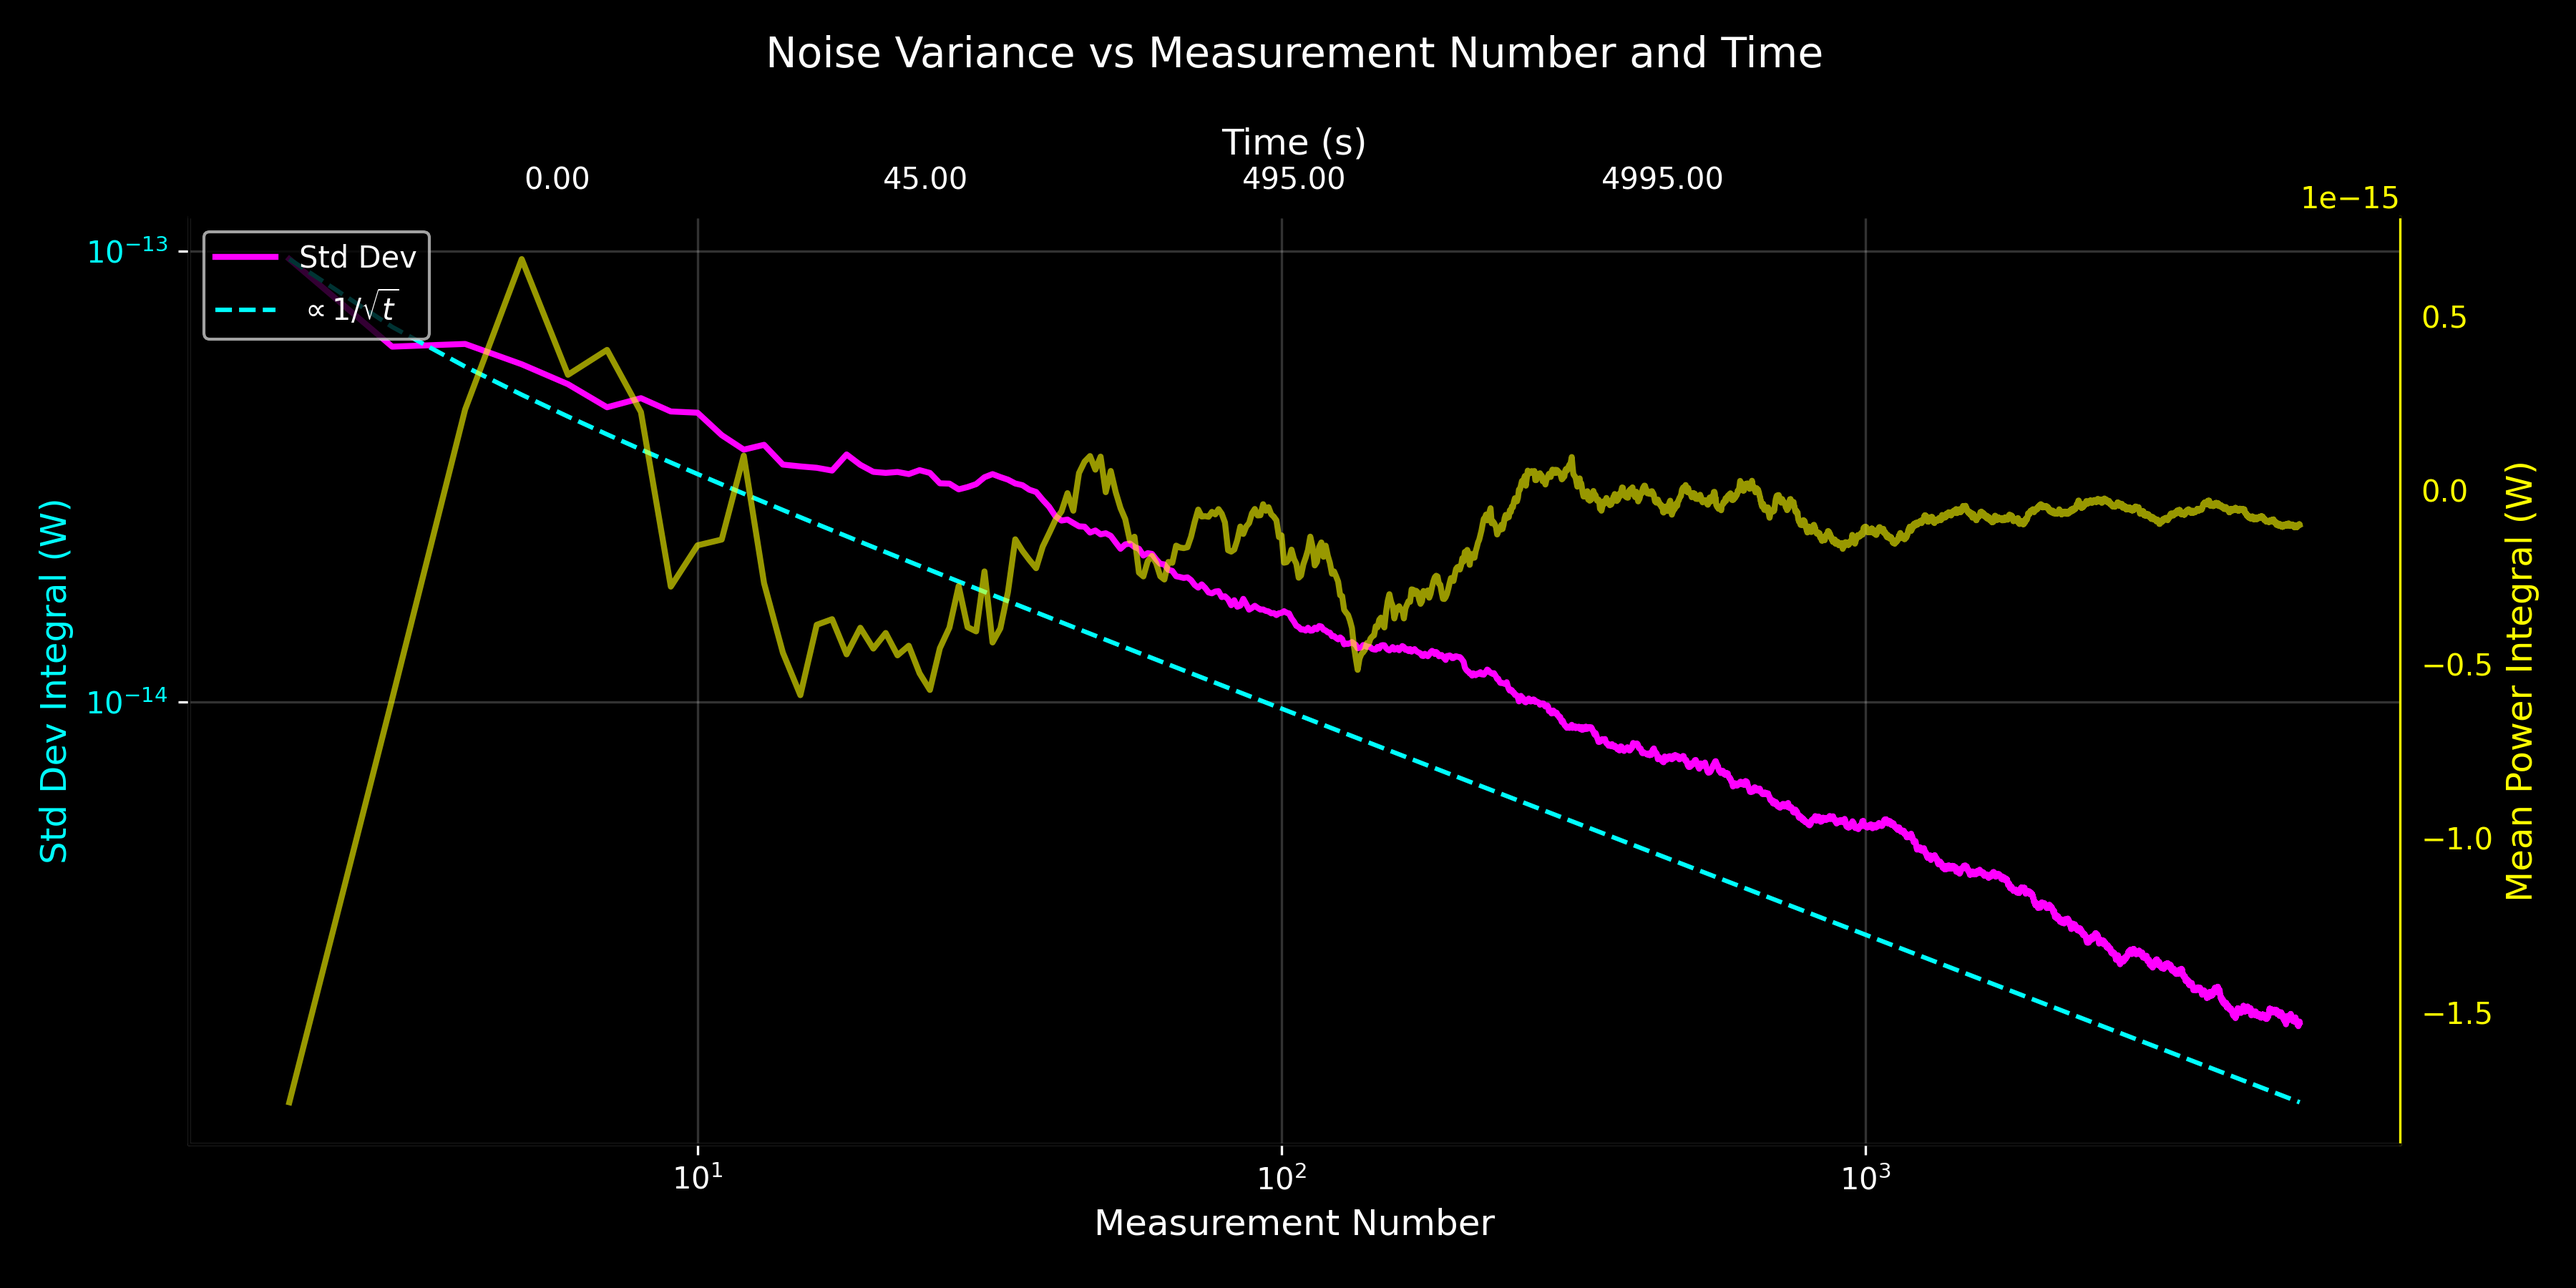
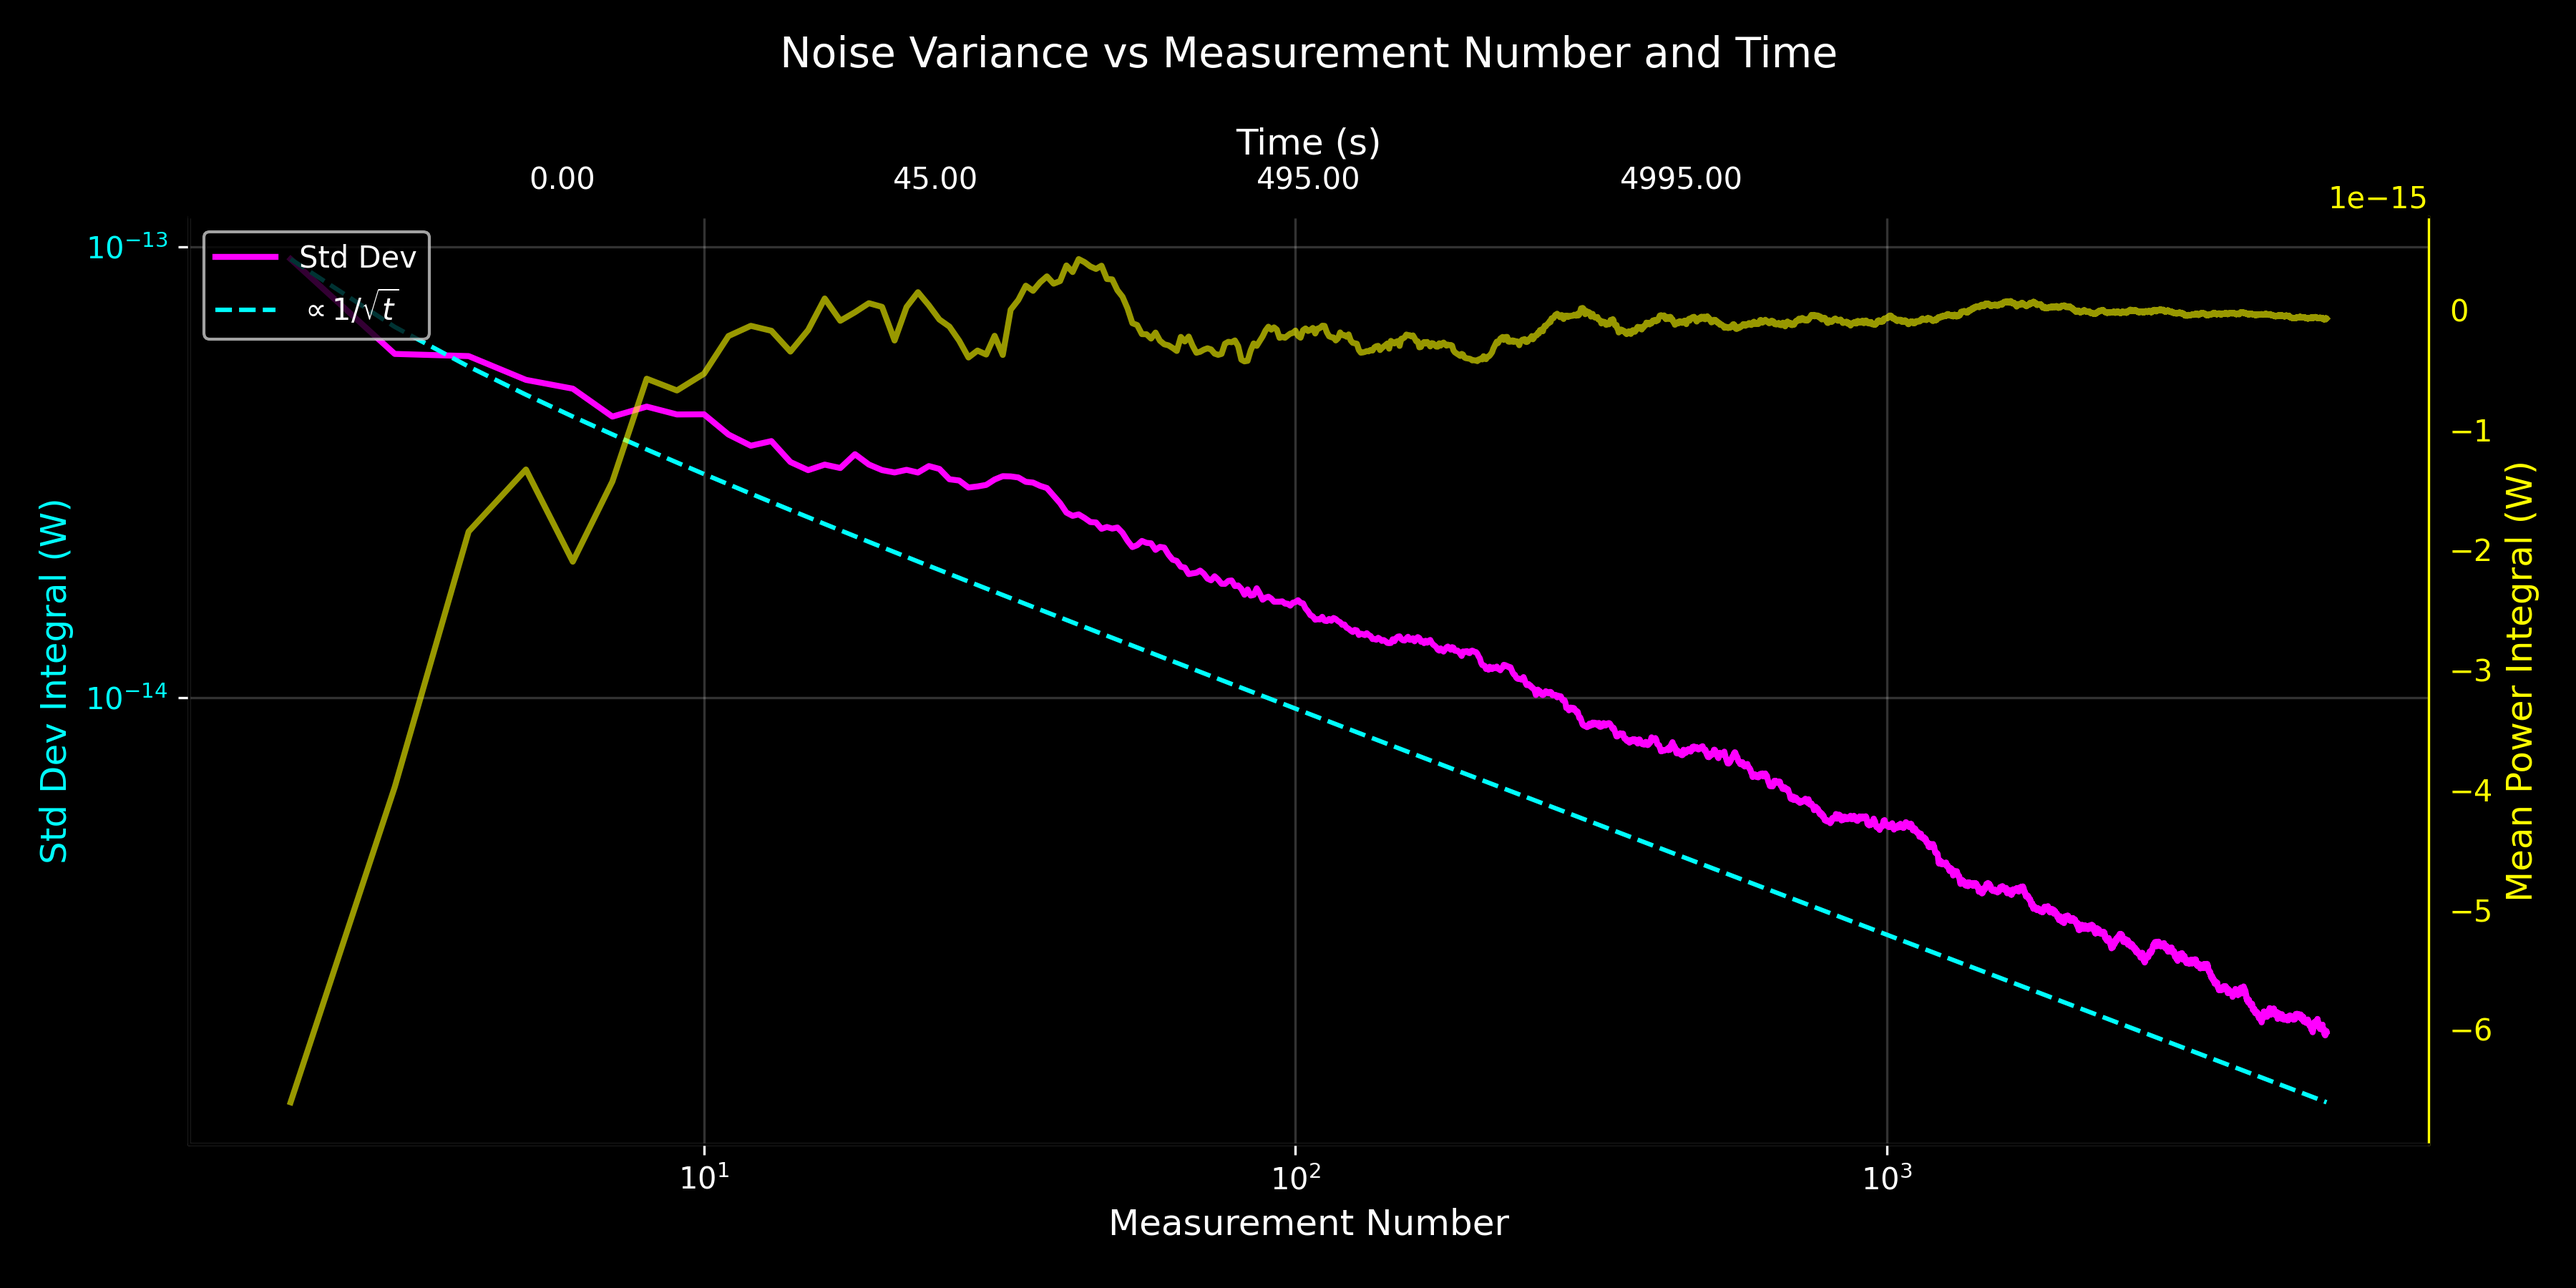
Sim improved

diff --git a/Codebase/Analysis/SignalSim.py b/Codebase/Analysis/SignalSim.py
@@ -11,6 +11,11 @@ from scipy import constants as const
 # A_P = 0.21 # cm^2
 # DELTA_V = 5 #GhZ
 
+# Multyply signal by teh gain (gain/10)*10 (JUST SUM IN THE GAIN + IMPEDENCE)
+# DO NOT INCLUDE THE GAIN OF THE PREAMPLIFIER
+# TAKE IN THE LOSS OF THE DETECTOR INTO ACCOUNT
+    # LOOK INTO THE CONVERSION LOSS OF THE DATASHEET, APPLY TO TEH INPUT SIGNAL
+
 class SignalSim:
     def __init__(self, meta, pressures, constants):
 
@@ -32,12 +37,14 @@ class SignalSim:
         self.ATM_PRESSURE = constants['ATM_PRESSURE']
         self.NOISE_STD = constants['NOISE_STD']
         self.BASELINE_COEFFS = constants['BASELINE_COEFFS']
+        self.GAIN = 10 ** (constants['GAIN'] / 10) # convert from dB to linear
+        self.RBW = constants['RBW']
         
         self.Q = constants['Q']
         self.T = constants['T']
-        self.A_eg = constants['A_eg']
+        self.A_eg = constants['A_eg'] * 0.0001 # convert from s^-1 cm^2 to s^-1 m^2
         self.nu = constants['nu']
-        self.L = constants['L']
+        self.L = constants['L'] * 0.01 # convert from cm to m
         self.PHI_D = constants['PHI_D']
         self.A_p = constants['A_p']
 
@@ -46,7 +53,7 @@ class SignalSim:
         n_e = (pressure / const.k * self.T) * (co_ppm / 1e6) * np.exp(-33.2 / self.T) / self.Q 
         I_v = (3 / (8 * np.pi * CO_bandwidth)) * n_e * const.h * self.nu * self.A_eg * self.L
         P_v = I_v * CO_bandwidth * self.PHI_D * self.A_p
-        return P_v * (1 + np.random.normal(-0.1, 0.1)) * self.SWEEP_TIME # add some variability to the signal power 
+        return P_v 
     
     def COBandwidth(self, pressure):
         # Gives the expected bandwidth at a given pressure
@@ -56,11 +63,14 @@ class SignalSim:
         # Gives the power at a given frequency
         CO_bandwidth = self.COBandwidth(pressure)
         CO_power = self.COPower(co_ppm, pressure, CO_bandwidth)
-        return CO_power * self.gaussian(freq, self.CENTER_FREQ, CO_bandwidth / (2 * np.sqrt(2 * np.log(2)))) # convert FWHM to sigma for gaussian
+        distribution = self.gaussian_normalized(freq, self.CENTER_FREQ, CO_bandwidth)
+        sampled_power = CO_power * distribution * self.RBW
+        return self.GAIN * sampled_power
     
-    def gaussian(self, x, mu, sigma):
-        return (1/(sigma * np.sqrt(2 * np.pi))) * np.exp(-((x-mu)**2) / (2 * sigma**2))
-
+    def gaussian_normalized(self, x, mu, sigma):
+        normalization = 1 / (sigma * np.sqrt(2 * np.pi))
+        return normalization * np.exp(-((x - mu)**2) / (2 * sigma**2))
+    
     def generateCOSignal(self, pressure, co_ppm):
         freqs = np.linspace(self.CENTER_FREQ - self.SPAN/2, self.CENTER_FREQ + self.SPAN/2, self.N_PTS)
         signal = self.COPowerAtFreq(co_ppm, pressure, freqs)
@@ -151,6 +161,8 @@ def getSimulatedData(powers, freqs, pressures, meta, sim_co=True):
     'CENTER_FREQ': float(meta['Center Frequency (Hz)']),
     'SPAN': float(meta['Span']),
     'SWEEP_TIME': float(meta['Sweep Time (ms)']),
+    'RBW' : float(meta['RBW (Hz)']),
+    'GAIN' : float(meta['Effective Gain at Input (Db)']),
     'CO_POWER': 1e-16,
     'CO_BANDWIDTH_ATM': 3.5e9,
     'ATM_PRESSURE': 1012.25,
@@ -198,6 +210,8 @@ if __name__ == "__main__":
         'CO_POWER': 1e-16,
         'CO_BANDWIDTH_ATM': 3.5e9,
         'ATM_PRESSURE': 1012.25,
+        'RBW' : float(meta['RBW (Hz)']),
+        'GAIN' : float(meta['Effective Gain at Input (Db)']),
         'Q' : 108, # partition function for CO at room temperature
         'T' : 298, # K, room temperature
         'A_eg' : 2.5e-6, # s^-1, Einstein A coefficient for the transition

diff --git a/Codebase/Analysis/Graphing.py b/Codebase/Analysis/Graphing.py
@@ -194,7 +194,7 @@ if __name__ == "__main__":
     parser.add_argument('--sigma', type=float, default=2e6)
     parser.add_argument('--save_fig', action='store_true')
     parser.add_argument('--deg', type=int, default=3)
-    parser.add_argument('--n_sub', type=int, default=1)
+    parser.add_argument('--n_sub', type=int, default=500)
     parser.add_argument('--sub', action='store_true')
     parser.add_argument('--bin', action='store_true')
     parser.add_argument('--bin_factor', type=int, default=120)
@@ -214,9 +214,15 @@ if __name__ == "__main__":
 
     # --- TESTING FEATURES ---
     SIM_DATA = False
+    CHANGE_CONCENTRATION = False
     OFFSET_CENTER = False
     TRUNCATE_SIGNAL = False
     BRUTE_FORCE_CLEAN = False
+
+    # --- TEST: Change initial CO concentration in metadata for testing ---
+    if CHANGE_CONCENTRATION:
+        new_conc = input('TEST: Input new initial CO concentration in ppm for testing: ')
+        meta['initial_CO_concentration (ppm)'] = new_conc
 
     # --- TEST: Generate synthetic Gaussian noise for testing
     if SIM_DATA:
